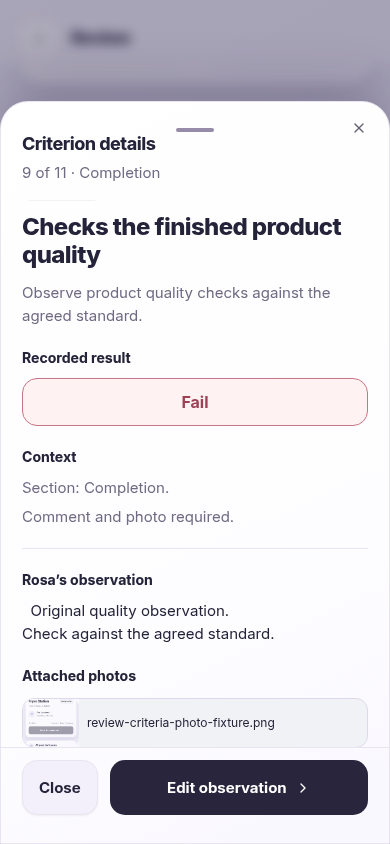
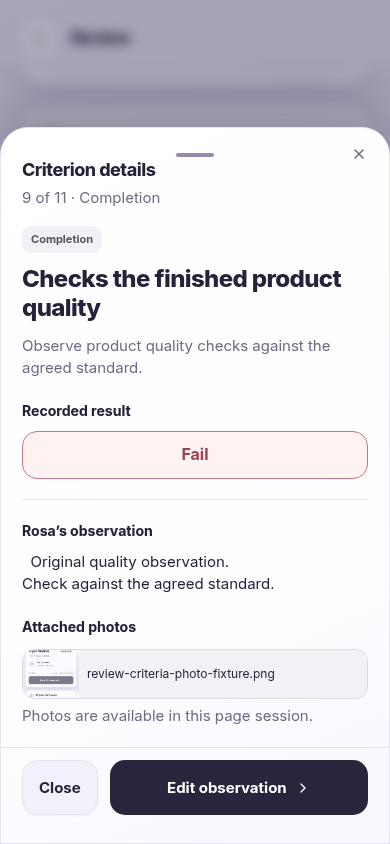
Remove redundant context section from criterion details

diff --git a/src/components/assessment/spatial-journey.tsx b/src/components/assessment/spatial-journey.tsx
@@ -52,13 +52,12 @@ export function SpatialReviewDetails({ index, draft, photos, onClose, onEdit, on
   const swipe = useRef<{ id: number; x: number; y: number } | null>(null)
   const gallery = useCallback((node: HTMLDivElement | null) => onEvidenceTarget?.(index, node), [index, onEvidenceTarget])
   const requirement = spatialEvidenceRequirement(index)
-  const requirements = { none: 'No evidence required.', comment: 'Comment required.', photo: 'Photo required.', 'comment-and-photo': 'Comment and photo required.' }
   return <SheetContent side="bottom" className="mobile-sheet flow-sheet spatial-review-details mx-auto" onCloseAutoFocus={onRestoreFocus} onOpenAutoFocus={event => { event.preventDefault(); title.current?.focus({ preventScroll: true }) }}>
     <SpatialActionButton variant="ghost" className="spatial-review-sheet-handle" aria-label="Close criterion details" onClick={onClose} onPointerDown={event => { if (!event.isPrimary || event.button !== 0) return; swipe.current = { id: event.pointerId, x: event.clientX, y: event.clientY }; event.currentTarget.setPointerCapture(event.pointerId) }} onPointerUp={event => { const from = swipe.current; swipe.current = null; if (from?.id !== event.pointerId) return; const dx = event.clientX - from.x, dy = event.clientY - from.y; if (dy > 48 && dy > Math.abs(dx) * 1.25) onClose() }} onPointerCancel={() => { swipe.current = null }}><span aria-hidden="true"/></SpatialActionButton>
     <SheetHeader><SheetTitle ref={title} tabIndex={-1} className="outline-none">Criterion details</SheetTitle><SheetDescription>{index + 1} of {flowCriteria.length} · {criterion.section}</SheetDescription></SheetHeader>
     <div className="spatial-review-detail-body"><section aria-label="Criterion"><div className="spatial-badges"><Badge variant="secondary" className="spatial-badge">{criterion.section}</Badge>{'critical' in criterion && <Badge variant="secondary" className="spatial-badge" data-tone="critical">Critical</Badge>}</div><h3>{criterion.title}</h3><p>{criterion.desc}</p></section>
     <section aria-label="Recorded result"><h4>Recorded result</h4><Badge variant="outline" className="spatial-review-outcome" data-result={result}>{result}</Badge>{result === 'Incomplete' && <p>{draft.answers[index] === 'met' || draft.answers[index] === 'fail' ? `Recorded response: ${draft.answers[index] === 'met' ? 'Pass' : 'Fail'}. ${spatialEvidenceMessage(requirement, draft.notes[index] ?? '', photos[index] ?? 0)}.` : 'No Pass or Fail response recorded.'}</p>}</section>
-    <section aria-label="Context"><h4>Context</h4><p>Section: {criterion.section}.</p>{'critical' in criterion && <p>This criterion is marked critical.</p>}<p>{requirements[requirement]}</p></section><Separator/>
+    <Separator/>
     <section aria-label="Rosa’s observation"><h4>Rosa’s observation</h4><p className="spatial-review-original-note">{draft.notes[index]?.trim() ? draft.notes[index] : 'No observation added.'}</p></section>
     {(photos[index] ?? 0) > 0 && <section aria-label="Attached photos"><h4>Attached photos</h4><div ref={gallery} className="flow-gallery spatial-attachments">{evidence}</div><p className="spatial-review-photo-note">Photos are available in this page session.</p></section>}
     </div><div className="spatial-review-detail-actions"><SpatialActionButton variant="outline" onClick={onClose}>Close</SpatialActionButton><SpatialActionButton onClick={onEdit}>Edit observation<ChevronRight aria-hidden="true"/></SpatialActionButton></div>

diff --git a/docs/rosa-review-criteria/README.md b/docs/rosa-review-criteria/README.md
@@ -7,7 +7,7 @@ The existing React/shadcn Review now supports single-selection **All / Passed / 
 `SpatialReviewList`, `SpatialReviewFilters`, `SpatialReviewCriterionRow` and `SpatialReviewDetails` live in `src/components/assessment/spatial-journey.tsx`. The actual components are mounted in Rosa and in the [Review story](https://lp-git-feat-rosa-criterion-guidance-hamaralpedro1988.vercel.app/?view=design-system&section=rosa&pattern=review).
 
 - Counts and filtering use `src/data/spatial-review.ts`, the real criteria and existing evidence validation. Missing answers or required evidence appear as **Incomplete** and do not enter Passed/Failed filters. Critical includes any result.
-- Clicking a row opens a shadcn Sheet. It shows the original instruction, criterion position, section/critical badges, read-only result, configured evidence requirement and the original comment with whitespace preserved.
+- Clicking a row opens a shadcn Sheet. It shows the original instruction, criterion position, section/critical badges, read-only result and the original comment with whitespace preserved.
 - Photos use the existing EvidencePanel gallery portal, object URLs, EvidenceAttachment and preview sheet. Review hides the removal action. No photo is copied into storage or simulated in the participant app; existing session-only media behavior is preserved.
 - Escape, native/browser Back, Close and a downward drag on the handle dismiss the sheet. Focus returns to the row without scrolling it. The Review filter and scroll context remain mounted. Only **Edit observation** invokes the existing assessment navigation.
 - Chips use native button keyboard behavior and `aria-pressed`; only one is selected. Horizontal overflow hides the scrollbar. Empty filters have neutral feedback.
